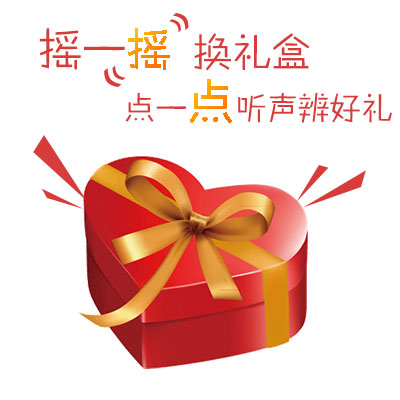
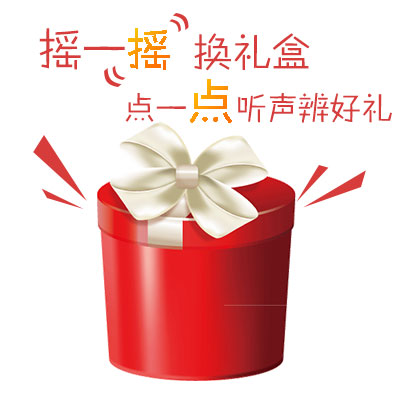
a

Changed region(s): [[0.21, 0.3, 0.78, 0.96]]

diff --git a/views/wapx/yaoyiyao.php b/views/wapx/yaoyiyao.php
@@ -99,9 +99,9 @@ $signPackage = $jssdk->GetSignPackage();
             <?php } ?>
 
 
-        <img id="gift1" width=100% style="width: 250px;height:200px" class='giftbox' giftbox_type=1 src="/wx/web/images/gift1.png?v13">
-        <img id="gift2" width=100% style="width: 250px;height:200px; display: none" class='giftbox' giftbox_type=2 src="/wx/web/images/gift2.png?v13">
-        <img id="gift3" width=100% style="width: 250px;height:200px; display: none" class='giftbox' giftbox_type=3 src="/wx/web/images/gift3.png?v13">
+        <img id="gift1" width=100% style="width: 250px;height:200px" class='giftbox' giftbox_type=1 src="/wx/web/images/gift1.jpg?v14">
+        <img id="gift2" width=100% style="width: 250px;height:200px; display: none" class='giftbox' giftbox_type=2 src="/wx/web/images/gift2.jpg?v14">
+        <img id="gift3" width=100% style="width: 250px;height:200px; display: none" class='giftbox' giftbox_type=3 src="/wx/web/images/gift3.jpg?v14">
         <!--
         <i class="fa fa-gift" style="color:red;font-size: 20em;"></i>
         -->
@@ -437,7 +437,7 @@ $signPackage = $jssdk->GetSignPackage();
                 title: '帮<?= $claimer->nickname ?>来襄阳联通抢礼盒', // 分享标题
                 desc: '已有<?= $giftbox->getHelpersNumber() ?>位好友帮<?= $claimer->nickname ?>抢了礼盒，还差<?= $giftbox->getHelpersNeeded();?>位，快来帮忙！', // 分享描述
                 link: 'https://open.weixin.qq.com/connect/oauth2/authorize?appid=wx1b122a21f985ea18&redirect_uri=http%3A%2F%2Fwosotech.com%2Fwx%2Fweb%2Findex.php%3Fr%3Dwap%2Foauth2cb&response_type=code&scope=snsapi_base&state=wapx/yaoyiyao:gh_03a74ac96138:giftbox_id=<?= $giftbox->id ?>#wechat_redirect', // 分享链接
-                imgUrl: '<?= Url::to('/wx/web/images/gift1.png', true); ?>', // 分享图标
+                imgUrl: '<?= Url::to('/wx/web/images/gift1.jpg', true); ?>', // 分享图标
                 type: '', // 分享类型,music、video或link，不填默认为link
                 dataUrl: '', // 如果type是music或video，则要提供数据链接，默认为空
                 success: function () { 
@@ -456,7 +456,7 @@ $signPackage = $jssdk->GetSignPackage();
             wx.onMenuShareTimeline({
                 title: '<?= $claimer->nickname ?>正在参与襄阳联通清凉一夏抢礼盒活动，已有<?= $giftbox->getHelpersNumber() ?>位好友帮<?= $claimer->nickname ?>抢了礼盒，还差<?= $giftbox->getHelpersNeeded();?>位，快来帮忙！', // 分享标题
                 link: 'https://open.weixin.qq.com/connect/oauth2/authorize?appid=wx1b122a21f985ea18&redirect_uri=http%3A%2F%2Fwosotech.com%2Fwx%2Fweb%2Findex.php%3Fr%3Dwap%2Foauth2cb&response_type=code&scope=snsapi_base&state=wapx/yaoyiyao:gh_03a74ac96138:giftbox_id=<?= $giftbox->id ?>#wechat_redirect', // 分享链接
-                imgUrl: '<?= Url::to('/wx/web/images/gift1.png', true); ?>', // 分享图标
+                imgUrl: '<?= Url::to('/wx/web/images/gift1.jpg', true); ?>', // 分享图标
                 type: '', // 分享类型,music、video或link，不填默认为link
                 dataUrl: '', // 如果type是music或video，则要提供数据链接，默认为空
                 success: function () { 

diff --git a/views/wapx/qingliangyixia.php b/views/wapx/qingliangyixia.php
@@ -21,45 +21,45 @@
 <table id="__01" width="100%" height="1136" border="0" cellpadding="0" cellspacing="0">
 	<tr>
 		<td>
-			<img src="\wx\web\images\qingliangyixia\qingliangyixia_01.jpg?v3"  alt=""></td>
+			<img src="\wx\web\images\qingliangyixia\qingliangyixia_01.jpg?v4"  alt=""></td>
 		<td>
-			<img src="\wx\web\images\qingliangyixia\qingliangyixia_02.jpg?v3"  alt=""></td>
+			<img src="\wx\web\images\qingliangyixia\qingliangyixia_02.jpg?v4"  alt=""></td>
 		<td>
-			<img src="\wx\web\images\qingliangyixia\qingliangyixia_03.jpg?v3"  alt=""></td>
+			<img src="\wx\web\images\qingliangyixia\qingliangyixia_03.jpg?v4"  alt=""></td>
 	</tr>
 	<tr>
 		<td>
-			<img src="\wx\web\images\qingliangyixia\qingliangyixia_04.jpg?v3"  alt=""></td>
+			<img src="\wx\web\images\qingliangyixia\qingliangyixia_04.jpg?v4"  alt=""></td>
 		<td>
 			<a href="javascript:alert('抢个礼盒!')">
-			<img src="\wx\web\images\qingliangyixia\qingliangyixia_05.jpg?v3"  alt=""></a></td>
+			<img src="\wx\web\images\qingliangyixia\qingliangyixia_05.jpg?v4"  alt=""></a></td>
 		<td>
-			<img src="\wx\web\images\qingliangyixia\qingliangyixia_06.jpg?v3"  alt=""></td>
+			<img src="\wx\web\images\qingliangyixia\qingliangyixia_06.jpg?v4"  alt=""></td>
 	</tr>
 	<tr>
 		<td>
-			<img src="\wx\web\images\qingliangyixia\qingliangyixia_07.jpg?v3"  alt=""></td>
+			<img src="\wx\web\images\qingliangyixia\qingliangyixia_07.jpg?v4"  alt=""></td>
 		<td>
-			<img src="\wx\web\images\qingliangyixia\qingliangyixia_08.jpg?v3"  alt=""></td>
+			<img src="\wx\web\images\qingliangyixia\qingliangyixia_08.jpg?v4"  alt=""></td>
 		<td>
-			<img src="\wx\web\images\qingliangyixia\qingliangyixia_09.jpg?v3"  alt=""></td>
+			<img src="\wx\web\images\qingliangyixia\qingliangyixia_09.jpg?v4"  alt=""></td>
 	</tr>
 	<tr>
 		<td>
-			<img src="\wx\web\images\qingliangyixia\qingliangyixia_10.jpg?v3"  alt=""></td>
+			<img src="\wx\web\images\qingliangyixia\qingliangyixia_10.jpg?v4"  alt=""></td>
 		<td>
 			<a href="javascript:alert('去抽奖!')">
-			<img src="\wx\web\images\qingliangyixia\qingliangyixia_11.jpg?v3" alt=""></a></td>
+			<img src="\wx\web\images\qingliangyixia\qingliangyixia_11.jpg?v4" alt=""></a></td>
 		<td>
-			<img src="\wx\web\images\qingliangyixia\qingliangyixia_12.jpg?v3"  alt=""></td>
+			<img src="\wx\web\images\qingliangyixia\qingliangyixia_12.jpg?v4"  alt=""></td>
 	</tr>
 	<tr>
 		<td>
-			<img src="\wx\web\images\qingliangyixia\qingliangyixia_13.jpg?v3"  alt=""></td>
+			<img src="\wx\web\images\qingliangyixia\qingliangyixia_13.jpg?v4"  alt=""></td>
 		<td>
-			<img src="\wx\web\images\qingliangyixia\qingliangyixia_14.jpg?v3"  alt=""></td>
+			<img src="\wx\web\images\qingliangyixia\qingliangyixia_14.jpg?v4"  alt=""></td>
 		<td>
-			<img src="\wx\web\images\qingliangyixia\qingliangyixia_15.jpg?v3"  alt=""></td>
+			<img src="\wx\web\images\qingliangyixia\qingliangyixia_15.jpg?v4"  alt=""></td>
 	</tr>
 </table>
 <!-- End Save for Web Slices -->
